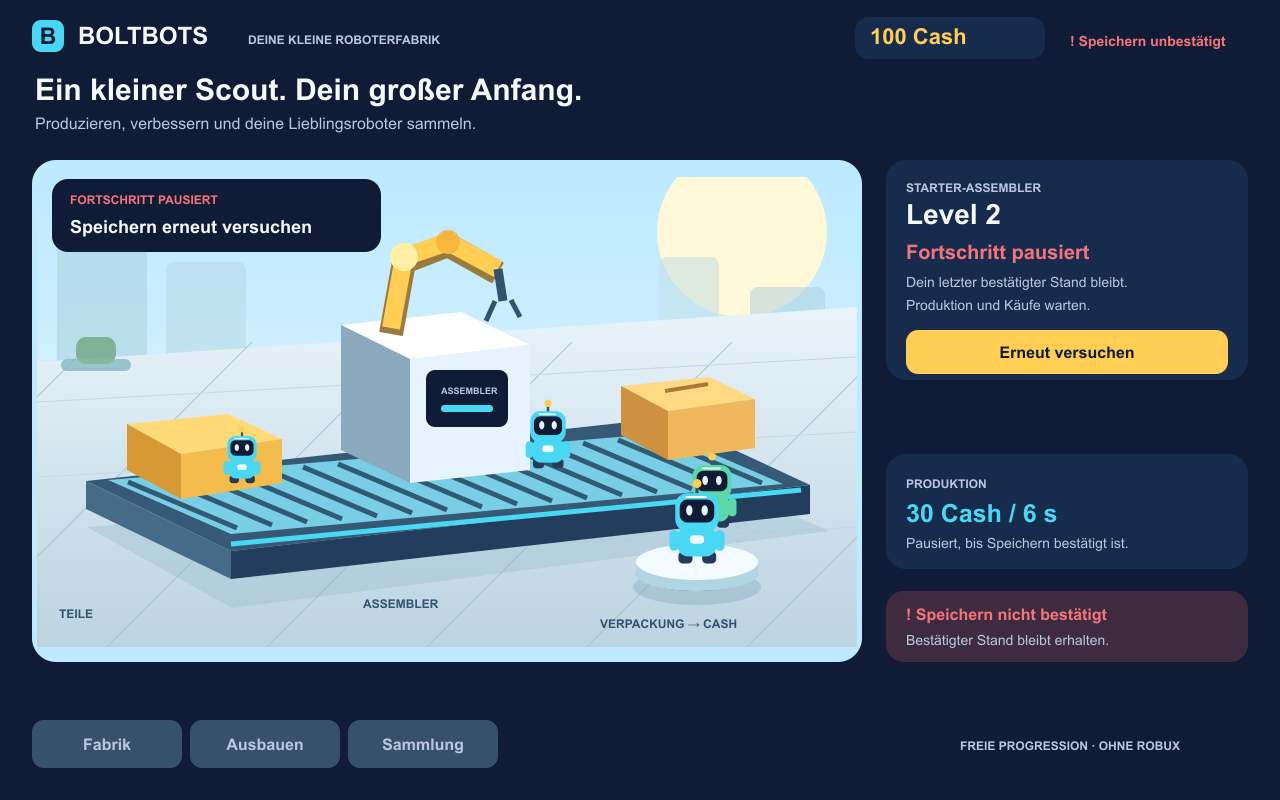
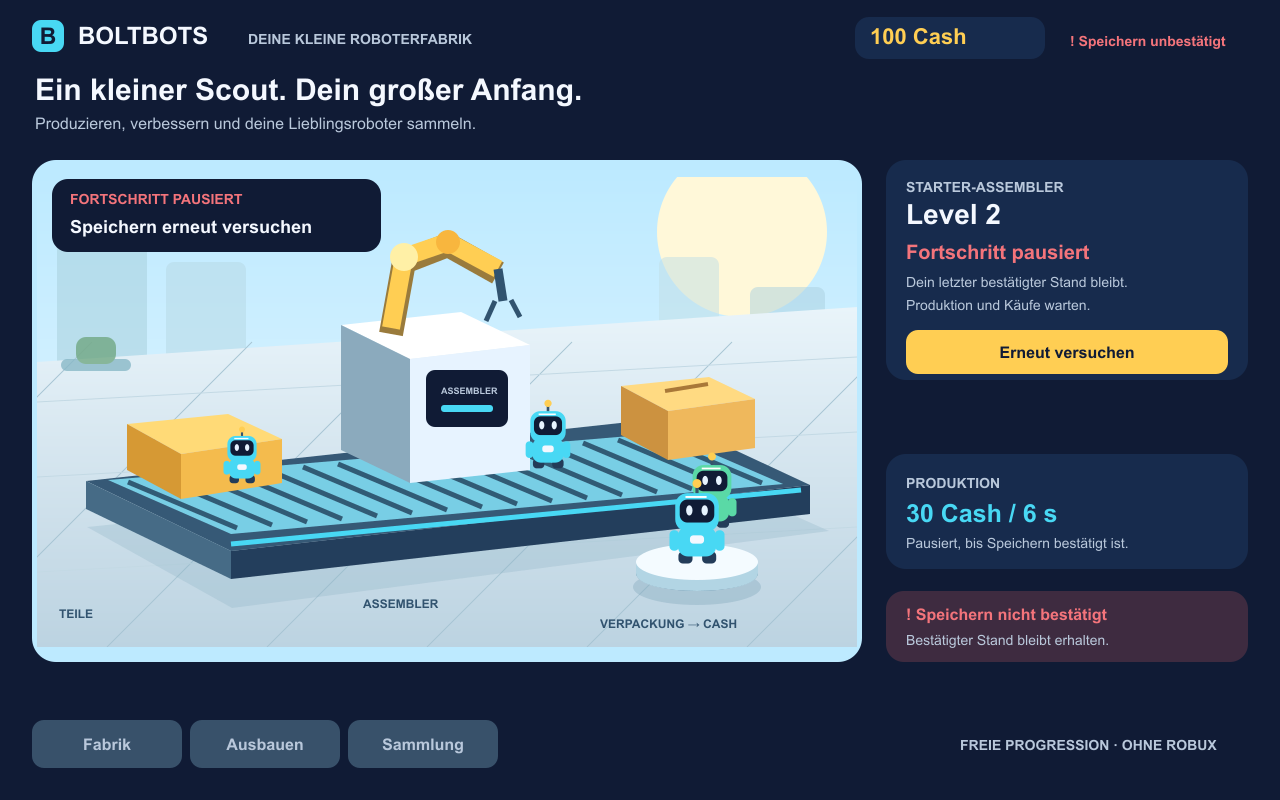
Raise design labels to reviewed minimum size

diff --git a/docs/design/reference/design.js b/docs/design/reference/design.js
@@ -23,9 +23,9 @@
       return rect(x,y,w,h,disabled?'#38516A':fill,12)+text(x+w/2,y+h/2+6,label,16,disabled?C.muted:(fill===C.panel?C.text:C.ink),700,'text-anchor="middle"');
     }
     function nav(y){const gap=8,margin=mobile?16:32,bw=mobile?(width-48)/3:150;return ['Fabrik','Ausbauen','Sammlung'].map((label,i)=>button('nav'+i,margin+i*(bw+gap),y,bw,48,label,[success?'upgraded':'world',success?'upgraded':'upgrade',success?'collection':'collection_initial'][i],((collection&&i===2)||(!collection&&state==='upgrade'&&i===1)||state==='world'&&i===0)?C.cyan:C.panel,error)).join('');}
-    function status(){return text(mobile?24:width-210,mobile?105:46,error?'! Speichern unbestätigt':'● Beispiel: gespeichert',mobile?13:14,error?C.danger:C.ok,600);}
+    function status(){return text(mobile?24:width-210,mobile?105:46,error?'! Speichern unbestätigt':'● Beispiel: gespeichert',14,error?C.danger:C.ok,600);}
     function machineCard(x,y,w){
-      let b=rect(x,y,w,error?220:286,C.panel,20)+text(x+20,y+32,'STARTER-ASSEMBLER',12,C.muted,700)+text(x+20,y+64,`Level ${level}`,28,C.text,750);
+      let b=rect(x,y,w,error?220:286,C.panel,20)+text(x+20,y+32,'STARTER-ASSEMBLER',14,C.muted,700)+text(x+20,y+64,`Level ${level}`,28,C.text,750);
       if(error){return b+text(x+20,y+99,'Fortschritt pausiert',20,C.danger,700)+text(x+20,y+127,'Dein letzter bestätigter Stand bleibt.',14,C.muted)+text(x+20,y+150,'Produktion und Käufe warten.',14,C.muted)+button('retry',x+20,y+170,w-40,44,'Erneut versuchen','upgraded',C.amber);}
       if(success){return b+text(x+20,y+100,'✓ Ausbau geschafft',20,C.ok,700)+text(x+20,y+132,'Orbit ist jetzt freigeschaltet.',15,C.text)+text(x+20,y+157,'Wähle dein nächstes Design.',15,C.muted)+button('go-collection',x+20,y+185,w-40,48,'Sammlung öffnen','collection',C.amber);}
       b+=text(x+20,y+97,'Schneller produzieren',20,C.text,700)+text(x+20,y+128,'Level 1 → Level 2',16,C.muted)+text(x+20,y+153,'Danach: Orbit freigeschaltet',14,C.cyan);
@@ -38,14 +38,14 @@
       const cw=mobile?(w-12)/2:(w-48)/5,ch=mobile?181:280,gap=12;
       return names.map((name,i)=>{
         const cx=x+(i%(mobile?2:5))*(cw+gap),cy=y+Math.floor(i/(mobile?2:5))*(ch+gap),free=i<(success?2:1);
-        let card=rect(cx,cy,cw,ch,C.panel,16)+robot(cx+cw/2,cy+(mobile?52:99),mobile?.5:.95,cols[i],[0,2,1,3,4][i])+text(cx+14,cy+(mobile?105:183),name,mobile?18:22,C.text,700)+text(cx+14,cy+(mobile?126:208),free?'Freigeschaltet':'Noch gesperrt',mobile?12:14,free?C.ok:C.muted);
+        let card=rect(cx,cy,cw,ch,C.panel,16)+robot(cx+cw/2,cy+(mobile?52:99),mobile?.5:.95,cols[i],[0,2,1,3,4][i])+text(cx+14,cy+(mobile?105:183),name,mobile?18:22,C.text,700)+text(cx+14,cy+(mobile?126:208),free?'Freigeschaltet':'Noch gesperrt',14,free?C.ok:C.muted);
         if(free)card+=button('select-'+i,cx+8,cy+ch-50,cw-16,44,name==='Orbit'?'Orbit wählen':'Scout wählen',name==='Orbit'?'orbit_selected':success?'upgraded':'world',C.cyan);
         return card;
       }).join('');
     }
     body+=rect(0,0,width,height,C.ink,0);
     body+=rect(mobile?16:32,20,32,32,C.cyan,9)+text(mobile?32:48,44,'B',23,C.ink,800,'text-anchor="middle"')+text(mobile?58:78,44,'BOLTBOTS',mobile?21:24,C.text,800);
-    if(!mobile) body+=text(248,44,'DEINE KLEINE ROBOTERFABRIK',12,C.muted,600);
+    if(!mobile) body+=text(248,44,'DEINE KLEINE ROBOTERFABRIK',14,C.muted,600);
     const cx=mobile?width-123:width-425;body+=rect(cx,17,mobile?107:190,42,C.panel,14)+text(cx+15,44,`${cash} Cash`,mobile?18:22,C.amber,750);body+=status();
     if(mobile){
       body+=text(20,83,rate,14,C.muted,500);
@@ -53,19 +53,19 @@
         body+=text(20,143,'Deine Roboter',28,C.text,750)+text(20,170,state==='orbit_selected'?'Orbit startet im nächsten Durchlauf.':`${success?2:1} von 5 Designs freigeschaltet`,14,C.muted)+collectionCards(16,190,width-32);
         body+=nav(height-64);
       } else {
-        body+=rect(16,122,width-32,66,error?'#3E2B40':C.panel,16)+text(30,146,error?'SPEICHERPROBLEM':success?'NEUES DESIGN':'DEIN NÄCHSTES ZIEL',11,error?C.danger:C.cyan,700)+text(30,174,error?'Dein Fortschritt wartet sicher.':success?'Entdecke Orbit in der Sammlung.':'Verbessere deinen Assembler.',17,C.text,650);
+        body+=rect(16,122,width-32,66,error?'#3E2B40':C.panel,16)+text(30,146,error?'SPEICHERPROBLEM':success?'NEUES DESIGN':'DEIN NÄCHSTES ZIEL',14,error?C.danger:C.cyan,700)+text(30,174,error?'Dein Fortschritt wartet sicher.':success?'Entdecke Orbit in der Sammlung.':'Verbessere deinen Assembler.',17,C.text,650);
         body+=scene(0,202,width,239)+machineCard(16,449,width-32)+nav(height-64);
-        body+=text(20,755,error?'Keine neuen Änderungen, bis Speichern bestätigt ist.':success?'✓ Orbit freigeschaltet':'Scout entsteht automatisch. Cash kommt von selbst.',12,error?C.muted:C.cyan);
+        body+=text(20,755,error?'Keine neuen Änderungen, bis Speichern bestätigt ist.':success?'✓ Orbit freigeschaltet':'Scout entsteht automatisch. Cash kommt von selbst.',14,error?C.muted:C.cyan);
       }
     } else {
       body+=text(35,100,collection?'Deine Robotersammlung':'Ein kleiner Scout. Dein großer Anfang.',30,C.text,750)+text(35,129,collection?(state==='orbit_selected'?'Orbit produziert ab dem nächsten Durchlauf.':'Fünf Designs. Jedes mit einem eigenen Charakter.'):'Produzieren, verbessern und deine Lieblingsroboter sammeln.',16,C.muted);
-      if(collection){body+=collectionCards(32,180,width-64)+rect(32,483,width-64,100,C.panel,20)+text(56,521,'DEIN NÄCHSTES ZIEL',12,C.cyan,700)+text(56,553,'Baue deine Fabrik weiter aus und entdecke neue Designs.',22,C.text,650);}
+      if(collection){body+=collectionCards(32,180,width-64)+rect(32,483,width-64,100,C.panel,20)+text(56,521,'DEIN NÄCHSTES ZIEL',14,C.cyan,700)+text(56,553,'Baue deine Fabrik weiter aus und entdecke neue Designs.',22,C.text,650);}
       else {
-        body+=rect(32,160,830,502,'#BDEAFF',24)+scene(37,177,820,470)+rect(52,179,329,73,C.ink,16)+text(70,204,error?'FORTSCHRITT PAUSIERT':success?'ORBIT FREIGESCHALTET':'DEIN NÄCHSTES ZIEL',12,error?C.danger:C.cyan,700)+text(70,233,error?'Speichern erneut versuchen':success?'Öffne deine Sammlung':'Starter-Assembler auf Level 2',18,C.text,650);
-        body+=machineCard(886,160,362)+rect(886,454,362,115,C.panel,20)+text(906,488,'PRODUKTION',12,C.muted,700)+text(906,522,rate,25,C.cyan,700)+text(906,548,error?'Pausiert, bis Speichern bestätigt ist.':'Cash wird automatisch gutgeschrieben.',14,C.muted);
+        body+=rect(32,160,830,502,'#BDEAFF',24)+scene(37,177,820,470)+rect(52,179,329,73,C.ink,16)+text(70,204,error?'FORTSCHRITT PAUSIERT':success?'ORBIT FREIGESCHALTET':'DEIN NÄCHSTES ZIEL',14,error?C.danger:C.cyan,700)+text(70,233,error?'Speichern erneut versuchen':success?'Öffne deine Sammlung':'Starter-Assembler auf Level 2',18,C.text,650);
+        body+=machineCard(886,160,362)+rect(886,454,362,115,C.panel,20)+text(906,488,'PRODUKTION',14,C.muted,700)+text(906,522,rate,25,C.cyan,700)+text(906,548,error?'Pausiert, bis Speichern bestätigt ist.':'Cash wird automatisch gutgeschrieben.',14,C.muted);
         body+=rect(886,591,362,71,error?'#3E2B40':C.panel,18)+text(906,620,error?'! Speichern nicht bestätigt':'✓ Deine Fabrik, dein Fortschritt',16,error?C.danger:C.ok,650)+text(906,645,error?'Bestätigter Stand bleibt erhalten.':'Hier kann nur dein Konto ausbauen.',14,C.muted);
       }
-      body+=nav(height-80)+text(width-320,height-50,'FREIE PROGRESSION · OHNE ROBUX',12,C.muted,600);
+      body+=nav(height-80)+text(width-320,height-50,'FREIE PROGRESSION · OHNE ROBUX',14,C.muted,600);
     }
     const svg=`<svg xmlns="http://www.w3.org/2000/svg" width="${width}" height="${height}" viewBox="0 0 ${width} ${height}" role="img" aria-label="BoltBots Designreferenz ${esc(state)}"><g font-family="Arial, Helvetica, sans-serif">${body}</g></svg>`;
     return {svg,actions:a,summary:`Designfixture ${state}. ${cash} Cash. Assembler Level ${level}. ${error?'Speichern nicht bestätigt; Fortschritt pausiert.':''}`,state,width,height};

diff --git a/docs/reviews/20261024-1.5.3-boltbots-initialization-review.md b/docs/reviews/20261024-1.5.3-boltbots-initialization-review.md
@@ -1,9 +1,9 @@
 # BoltBots — Entscheidung zur Initialisierung
 
-> Artifact ID: `BOLTBOTS-INITIALIZATION-REVIEW-001` · Revision: 1
+> Artifact ID: `BOLTBOTS-INITIALIZATION-REVIEW-001` · Revision: 2
 > Artifact class: Review record · Decision class: D3 human-gated
 > Lead/Creator: /root · independent Reviewer: /root/init_review · Human Authority: Marek
-> Status: candidate; unabhängige Gesamtprüfung pending; Human Initialization Decision pending
+> Status: unabhängige Gesamtprüfung `changes_requested`; Human Initialization Decision pending
 > Run: BOLTBOTS-RUN-INITIALIZATION-001 r1
 
 ## Das Paket in Spielsprache
@@ -21,7 +21,7 @@ Die neue visuelle Referenz zeigt Fabrik, Upgrade, Sammlung sowie Erfolgs-/Speich
 | Ziel, MVP, alle39PRD-Anforderungen, Rollen und Erfolgsmessung | [Vision/MVP r1](../product/vision-and-mvp.md) |
 | Abläufe, Berechtigungen, Kauf-/Fehler-/Speicherverträge und Trace | [Factory r1](../specs/factory-module.md) |
 | Roblox-Architektur, Daten/Tests/Kosten, ADR-01 und Releasepolitik | [Technik r1](../specs/technical-foundation.md) |
-| Formen/Farben, Quellenübernahme, mobile Bedienung und visuelle Grenzen | [Design r1](../design/design-reference.md), [interaktives HTML](../design/reference/index.html) |
+| Formen/Farben, Quellenübernahme, mobile Bedienung und visuelle Grenzen | [Design r2](../design/design-reference.md), [interaktives HTML](../design/reference/index.html) |
 | Ausführlicher M1, sechs Wochen, vorgeschlagene Pakete/Runs | [Meilensteine r1](../planning/milestones.md) |
 | Einrichtung auf Mareks und weiteren Rechnern | [Setupguide r1](../setup.md) |
 
@@ -43,7 +43,7 @@ Die Foundation r1 ist weiterhin SHA256 `2cd9c514b3f1aefc1f7955e5389e75f9912a6f1e
 Nach der unabhängigen Review sind diese Entscheidungen gemeinsam möglich:
 
 1. **Produkt:** Vision/MVP,39Anforderungsdispositionen und Architekturvorschlag r1.
-2. **Design:** begrenzte Referenz r1 als Richtung für M1; endgültige Qualitätsentscheidung an echter Studio-Szene.
+2. **Design:** begrenzte Referenz r2 als Richtung für M1; endgültige Qualitätsentscheidung an echter Studio-Szene.
 3. **Plan:** M1 mit Setup, Spiel-/Save-/Design-/Agenttest sowie rollender M2/M3-Plan.
 4. **Release/Technik:** Product Release Policy r1 und ADR-01 Roblox-Lieferweg.
 5. **Beginn der Umsetzung:** vorgeschlagener RUN-M1-001 darf konkretisiert und nach Capability Preflight operativ gestartet werden; externe Zielaktionen bleiben an die genaue Autorisierung gebunden.
@@ -52,7 +52,55 @@ Keine automatische Freigabe für spätere Roadmap-Runs, Käufe oder öffentliche
 
 ## Unabhängige Gesamtprüfung und 80%-Drift
 
-Pending. Reviewer prüft Originalauftrag/Quellen gegen Kriterien und tatsächlich vorhandene Kandidatenbilder/Baselines; reine Textzusammenfassung genügt nicht. Exakte Bild-IDs, Capability image_tool, Abweichungen, Befunde, Reviewentscheidung und Drift/Simplicity/Budget werden hier nach tatsächlicher Prüfung festgehalten.
+**Entscheidung am 2026-10-24: `changes_requested` für einen eng begrenzten visuellen Befund.** Reviewer `/root/init_review` ist unabhängig vom Creator `/root`, hat keine Produkt-/Designquelle verändert und besitzt den exakten Startpass für diese Gesamtprüfung. Human bleibt `pending`. Die übrige Produkt-/Domain-/Technik-/Planungsbewertung erfordert keine materielle Korrektur.
+
+**Verständnis des Ziels:** Spieler sollen eine eigene freundliche Fabrik wachsen sehen, ohne komplizierte Logistik oder bezahlte Fortschrittszwänge. Sichtbare Produktion, nachvollziehbarer Ausbau, unterscheidbare Sammeldesigns und wiederherstellbarer Fortschritt tragen den MVP. M1 ist dafür eine sinnvolle kleine Wertkette: echtes Spiel mit dünner Persistenz und gemeinsamer Qualitätsreferenz, vom Agenten gebaut und gespielt. Der Human bleibt Entscheider über Richtung und Qualität; persönliche Freigaben werden nicht mit manueller Herstellungsarbeit verwechselt.
+
+### Exakte geprüfte Basis
+
[1 lines of base64/hex data omitted]
+
+### Kriterienprüfung aus drei Perspektiven
+
+| Kriterium / Perspektive | Beobachtung und Bewertung |
+|---|---|
+| Product: ursprünglicher PRD und Humanänderungen | Alle 39 ursprünglichen Anforderungs-IDs sind einzeln disponiert; die Mengen stimmen unabhängig ohne fehlende/zusätzliche IDs überein. O1–O5 und die Qualitätsanforderungen haben geplante Nachweise. Setup nach Checkout, vollständige Erstellung durch Codex, echte Agent-Spieltests und die zweistufige Robotergestaltung sind in M1/M2 ausdrücklich erhalten. Technische Agenttests werden nicht als Novizenmedian oder tatsächlicher Spielspaß ausgegeben. |
+| Domain und Kernflows | Ein Factory-Kontext, persönliche Eigentumsgrenze, automatische Vergütung, Designrechte statt Einzelroboterinventar und Orbit ab Starter-L2 bleiben unverändert. Kaufabsicht, Preis-/Levelprüfung, Abbruch, Ablehnung, Duplicate-/stale-Fälle und Savepause sind nachvollziehbar. Auswahl betrifft den nächsten Durchlauf; die Fixture vor dem Upgrade gewährt kein Orbitrecht. Die frühe Flow-Linse wurde übernommen, ohne neue Währung oder Shopmechanik. |
+| Engineering: Architektur, Verträge und Betrieb | Ein Factory-Modul mit reinen Regeln und konkreten Roblox-Adaptern genügt. Kein spekulatives Backend, keine Account-/Persistenzdomäne und keine leeren Schichtsysteme. Persistenzvorschlag nennt Konflikt-/Ausfalltests und behauptet keine automatische Dauerhaftigkeit durch lokale Klicks. ADR-01 begründet den Roblox-Lieferweg und bleibt eine explizite Human-Entscheidung. |
+| Release und Autorität | Product Release Policy r1 trennt Spielversion, Harnessversion, Profil-Schema und tatsächlich laufenden Place. SemVer, RC, Tagbindung, Veröffentlichung und Daten-/Code-Rollback sind benannt. Keine Produktversion, Testexperience oder Deploymentfreigabe erfunden. Das vorgeschlagene RUN-M1-001 bleibt vor echter Capability-/Zielprüfung nicht ausführbar. Die bekannte Statusprüferausnahme ersetzt keinen sonstigen Nachweis. |
+| Plan und Machbarkeit | Drei Zweiwochenfenster besitzen Ergebnisse und Abnahmen; nur M1 ist detailliert. Rund ein Drittel Kapazität für Test/Korrektur verhindert eine reine Implementierungsplanung. Save/Rejoin, Isolation, echte Szene und Agentbedienung sind harte M1-Ergebnisse; fehlende Testexperience darf nicht als fertiges M1 versteckt werden. Der zweite Rechner und echte Novizen-/Gerätetests bleiben sichtbar spätere Nachweise. |
+| Setup und Nachweisgrenzen | Der Guide unterscheidet vorhandene Dateien, vom Human gemeldetes Update, tatsächlich ausgeführte Tools und erst geplante Befehle. Kein erfundener Studio-CLI-Smoke und kein vorhandener Launcher behauptet. Persönlicher Login ist klar begrenzt. Die vorliegenden Daten beweisen noch keinen Studio-, Browser-, Rojo-, Mehrspieler- oder Blender-Lauf. |
+| Devil/Simplicity und Gegenbelege | Sechs zusammengefasste Eigentümerdokumente und eine begrenzte Designquelle erfüllen die Aufgabe ohne Dokument-/Servicefächerung. Ein HTML-/PNG-Entwurf belegt keine hochwertige 3D-Szene; die einfachen Roboterbilder beweisen noch keine fünf finalen 3D-Silhouetten. H-BAL/CAP/SAVE/LOOK/AUTO bleiben mit Prüfauslösern offen. Diese Grenzen sind im Plan erhalten und kein Anlass, jetzt weitere Plattformen oder Inhalte zu bauen. |
+
+Die vorgeschlagenen DataStore-Testgrenzen wurden mit der [offiziellen Roblox-Dokumentation](https://create.roblox.com/docs/cloud-services/data-stores) abgeglichen: Studiozugriff ist gesondert zu aktivieren, eine separate Testversion schützt Produktionsdaten, Netzwerkfehler bleiben zu behandeln. Die vorgesehenen Build-/Serve-Schritte entsprechen der [Rojo-v7-Dokumentation](https://rojo.space/docs/v7/getting-started/new-game/). Diese Quellenprüfung ist kein Nachweis einer lokal funktionierenden Toolchain.
+
+### Tatsächliche visuelle Prüfung
+
+Capability: **`image_tool`**, konkret `view_image`; alle nachfolgenden Bild-IDs wurden vollständig geöffnet und angesehen. Keine Browser- oder Studioausführung behauptet.
+
+| Tatsächlich inspizierte Bild-IDs | Vergleich / Beobachtung |
+|---|---|
+| `baseline-01_factory_world_concept.png`, `baseline-02_hud_concept.png`, `baseline-03_robot_shop_concept.png` | Unveränderte illustrative Eingabe: helle Fabrik, freundliche Roboter, cyan/amber und dunkle HUD-Flächen. XP-/Diamanten-/Shop-/Seltenheitsdetails sind keine genehmigte Domainlogik. Die eigene Geometrie übernimmt die Richtung und vermeidet blindes Kopieren dieser Produktdetails. |
+| `world-1280`, `upgrade-1280`, `upgraded-1280` | Produktion und Maschine bleiben dominant; Ziel, Cash, eindeutiger Kauf/Abbruch und Ergebnis lassen sich verfolgen. 150→100 Cash, L1→L2 und Orbitfreischaltung stimmen mit den Fixtures überein. Ausreichender Abstand, konsistente Panels/Buttons und keine beobachtete Überdeckung der Hauptaktionen. Einige sekundäre Labels unterschreiten jedoch die eigene Mindestgröße: F-VIS-01. |
+| `collection-1280`, `collection-390` | Fünf benannte Designs, freie Scout-/Orbitwahl und gesperrte weitere Familien bleiben unterscheidbar. Mobile wechselt sinnvoll auf zwei Spalten, statt Desktop klein zu skalieren. Kein M2-/Implementierungsbegriff in der Spielansicht. Genaue spätere Freischaltbedingungen bleiben H-BAL, nicht durch Fantasiewerte vorgetäuscht. Mobile Statuslabels sind von F-VIS-01 betroffen. |
+| `save_error-1280`, `save_error-390` | Unbestätigte Speicherung wird textlich und farblich gezeigt, Navigation/Fortschrittsaktionen sind sichtbar deaktiviert, Wiederholung ist getrennt. Letzter bestätigter Zustand bleibt 100 Cash/L2; keine neue Belohnung. Rate wird zusammen mit dem ausdrücklichen Pausenhinweis gezeigt. Kleine mobile Ziel-/Hilfslabels fallen unter F-VIS-01. |
+| `upgrade-390` | Cash, Ziel, Szene und Kaufkarte sind auf dem schmalen Viewport klar geordnet; Kauf und Abbruch bleiben sichtbar. Die Weltillustration dient der Orientierung, nicht als beweisende Studio-Szene. Informative UI-Labels dürfen trotzdem die deklarierte Mindestgröße nicht unterschreiten. |
+
+Die Sourceprüfung bestätigt native beschriftete Buttons, sichtbare Fokusgestaltung, feste Zustände, gesperrte Fehlernavigation und den Retry ohne Fortschrittsreset. Vorhandene fokussierte Quellenprüfungen für Action-Bounds, mindestens 44px Ziele, gültige Übergänge und fünf Kontrastpaare wurden für den unveränderten Kandidaten wiederverwendet. Eine HTML-Parsing-/Quellenprüfung belegt weder echtes Browserfokusverhalten noch Roblox-Touchbedienung; dafür werden keine weitergehenden Abnahmen behauptet.
+
+### Konsolidierter Befund und Disposition
+
+| Finding | Einstufung und konkrete Evidenz | Disposition / Closurebedingung |
+|---|---|---|
+| **F-VIS-01 — informative Labels kleiner als vereinbart** | `minor`, `blocking: true`, `in_scope_blocking`. Design r1 verspricht für ergänzende Labels mindestens 14 logische Pixel. `design.js` setzt u. a. mobile Ziel-/Speicherüberschriften auf 11px, Sammlungsstatus auf 12px und Maschinen-/Desktopmetadaten auf 12px. Die inspizierten Bilder bestätigen diese kleinen UI-Texte. Betroffen: vereinbarte Lesbarkeit auf schmaler Darstellung, keine neue Produktscopefrage. | Von Root angenommen. In einem gemeinsamen Korrekturpatch informative Spieler-UI-Texte auf mindestens 14px bringen; Maßstab nicht pauschal absenken. Rein illustrative Szenenbeschriftung darf getrennt als Illustration verbleiben. Acht Kandidatenbilder neu rendern, tatsächliche Text-/Aktionsgrenzen und relevante Übergänge prüfen, Quellen-/Bildbindungen aktualisieren. Reviewer prüft anschließend nur diese geänderten Quellen und Bilder. Bis dahin kein finales visuelles approved. |
+
+Keine weiteren materiellen Findings, keine verdeckte Scopeerweiterung und kein verbleibender Dissens. Die spätere reale Spiel-/Gerätequalität und die bekannten Hypothesen sind geplante Arbeiten mit klaren Auslösern, keine fälschlich geschlossenen Tests.
+
+### Unabhängiger 80%-Driftcheck
+
+**Entscheidung: `continue` ausschließlich für die eine angenommene Korrektur samt fokussierter Closure, danach Gate-Vorlage.** Der Originalauftrag wird durch vollständige Anforderungen, kohärentes M1, technische Grundlage und tatsächlich betrachteten Designnachweis verfolgt. F-VIS-01 ist direkt auf den zugesagten Qualitätsmaßstab zurückgeführt; keine neue Infrastruktur, kein zusätzliches Feature, kein weiterer Agent und keine Wiederholung unveränderter Domain-/Planreview nötig.
+
+80% bezeichnet den Fortschritt der gesamten Initialisierung, nicht Umsetzung oder Human-Abnahme. Stand der Prüfung etwa 17:22 UTC: rund 44 von 120 Minuten des Phase-B-Fensters verbraucht, rund 76 Minuten bis 18:38:45 UTC verfügbar. Drei bestehende Astra/xhigh-Identitäten; zwei Arbeitsrollen und separater Startreviewer. Frühe Flow-Linse und diese konsolidierte Gesamtprüfung gehören zum bestehenden Reviewbudget. Vor dem angenommenen Patch sind 2/3 Korrekturzyklen verbraucht, genau einer verbleibt; dessen relevante Tests und Closure sind eingeschlossen. Nach Abschluss kann ohne zusätzliche Produktarbeit das zweite Human-Gate vorgelegt werden. Neue materielle Mängel nach Erschöpfung würden einen ehrlichen Halt erfordern, keine zusätzliche Schleife unter anderem Namen.
 
 ## Humanentscheidung
 

diff --git a/docs/work/runs/boltbots-initialization-001.md b/docs/work/runs/boltbots-initialization-001.md
@@ -15,7 +15,7 @@ Die genaue freigegebene Foundation bleibt SHA256 `2cd9c514b3f1aefc1f7955e5389e75
 
 Scope Lock: Das Ergebnis sind die notwendigen Initialisierungsartefakte für genau einen Factory-Kontext und den genehmigten Horizont. Bestehende Quellbedeutung wiederverwenden; höchstens wenige zusammengefasste Eigentümerdokumente und ein kleines gebundenes Design. Ein Fund außerhalb dieses Ergebnisses wird mit Owner/Trigger zurückgestellt. Outcome-, Pfad-, Team-, Budget- oder externe Aktionsausweitung braucht entsprechende vorherige Human-Autorität.
 
-Finite Grenze:120Minuten ab16:38:45UTC am24.10.2026, Ende18:38:45UTC, einschließlich Vorbereitung. Gesamtfortschritt40%;2von3Korrekturzyklen verbraucht,1 verbleibt. Keine Rücksetzung am Phasenwechsel. Phase-A-Zeitrahmen beendet; keine erneute Arbeit an ihrer Fachsemantik.
+Finite Grenze:120Minuten ab16:38:45UTC am24.10.2026, Ende18:38:45UTC, einschließlich Vorbereitung. Gesamtfortschritt80%; Korrekturzyklus3von3 für F-VIS-01 aktiv, einschließlich seiner fokussierten Closure; danach keine weitere Reserve. Keine Rücksetzung am Phasenwechsel. Phase-A-Zeitrahmen beendet; keine erneute Arbeit an ihrer Fachsemantik.
 
 ## Führende Arbeitsliste
 
@@ -133,7 +133,7 @@ Die vorhandene Visual Reference Board HTML ist eine statische Bildgalerie, kein 
 ```json
 {
   "checked_revision": 1,
-  "progress": 70,
+  "progress": 80,
   "updates": [
     {
       "percent": 10,
@@ -162,6 +162,10 @@ Die vorhandene Visual Reference Board HTML ist eine statische Bildgalerie, kein 
     {
       "percent": 70,
       "evidence": "Synthetischer interaktiver HTML/SVG-Entwurf mit drei Ansichten und Varianten,8PNG-Kandidaten +3unveränderte Baselinebilder erstellt. Root hat alle8Kandidaten und3Quellen tatsächlich angesehen. Focusedchecks:44px-Ziele/Bounds, festeTransitions inklusive Save-Retry, Syntax/keineNetzwerkaufrufe und5Kontrastpaare bestanden. Keine Browser-/Studioausführung behauptet. Nächster Schritt konsolidierte unabhängige Gesamt-/Bildprüfung samt80%-Drift."
+    },
+    {
+      "percent": 80,
+      "evidence": "Unabhängiger init_review hat alle11Bilder tatsächlich gesehen, exakteHashes/Commit3aef09d und39/39PRD-IDs bestätigt. Ein konsolidierterBlocker: informativeUI-Labels unterschreiten den eigenen14px-Mindestmaßstab. Kein weiterer materiellerDomain/M1/Architektur/Autoritätsbefund. Letzter verbleibender gemeinsamerKorrekturzyklus wird nur für Schriftgrößen/erneute betroffeneBildclosure genutzt."
     }
   ],
   "drift_checks": [
@@ -190,6 +194,12 @@ Die vorhandene Visual Reference Board HTML ist eine statische Bildgalerie, kein 
       "reviewer": "/root",
       "decision": "continue",
       "evidence": "Originalziel bleibt Initialisierung mit M1-Setup/realem Spiel/Design/Agenttest, nicht bloß Prozess. Alle39Anforderungen disponiert; keine neue Domain, kein eigener Backenddienst, Blender optional. Sechs zusammengefasste Docs statt separatem Artefakt pro Pflicht. Größtes Risiko reale Studio-/Save-/Gerätefähigkeit in M1 ausdrücklich offen. Geplantes Rendering nutzt vorhandenes sharp, keine Installation/Cloud. Rund34von120Minuten PhaseB verbraucht, Rest bis18:38:45UTC;2von3Korrekturen verwendet,1verbleibt. UI begrenzt auf3Ansichten/Varianten, gleicheReviewrunde. Weiter zum visuellen Nachweis nach früher Flow-Linse."
+    },
+    {
+      "percent": 80,
+      "reviewer": "/root/init_review",
+      "decision": "continue",
+      "evidence": "UnabhängigeOriginalauftrag-/Quellen-/Bildprüfung: Konzept/M1/Architektur und39Anforderungen konsistent; alle8Kandidaten und3Baselines tatsächlich angesehen. Weiter nur zur eng begrenzten Schriftgrößenkorrektur, keine Ausweitung oder Absenkung des Qualitätsmaßstabs. Eine verbleibendeKorrektur plusbetroffeneClosure; PhaseB-Ende18:38:45UTC. Endreviewbefunde im bestehendenInitializationReviewPack. Human- und realeSpielnachweise bleiben offen."
     }
   ],
   "obligations": {
@@ -276,3 +286,7 @@ Studio: Dateiprüfung fand /Applications/RobloxStudio.app, bewies aber keinen er
 }
 ```
 <!-- visual-assurance:end -->
+
+## Gemeinsamer Korrekturzyklus3von3
+
+F-VIS-01 aus unabhängiger Gesamtprüfung: informativeUI-Schriftgröße kleinerals14px. Genau diese Texte werden auf≥14px angepasst; illustrative Weltzeichnung bleibt separat. Kein Produkt-/Flow-/Architekturwechsel. Betroffene Designrevision2, Rendererrevision2 und8PNG werden neu gebunden; Source-/Bounds-/Transition-/Kontrastregression und echte Bildsicht in demselben letzten Zyklus. Danach fokussierte unabhängigeClosure, unveränderte fachlicheReview wiederverwenden. Keine neue Runde/Reserve.

diff --git a/docs/handover.md b/docs/handover.md
@@ -5,7 +5,7 @@
 
 ## Stand und Entscheidung
 
-- **70% der gesamten Initialisierung.** Die fachliche Grundlage ist vom Human freigegeben; die Gesamtinitialisierung ist noch nicht abgeschlossen.
+- **80% der gesamten Initialisierung.** Die fachliche Grundlage ist vom Human freigegeben; die Gesamtinitialisierung ist noch nicht abgeschlossen.
 - Kanonischer Zustand: [Bootstrap](harness-state/bootstrap-and-installation.md), `initializing`.
 - Führende Arbeitsliste, Fortschrittsbelege, Driftchecks und Wiederaufnahme: [Initialisierungs-Run Revision 1](work/runs/boltbots-initialization-001.md), Status `active`; ursprüngliche 10–40%-Belege bleiben im referenzierten Domain-Run erhalten.
 - [Foundation Revision 1](domains/domain-foundation.md): unabhängig empfohlen und am 24. Oktober 2026 vom Human ausdrücklich freigegeben; Kandidatenbytes unverändert. [Kurzes Entscheidungs-/Review-Paket](reviews/20261024-1.5.3-boltbots-domain-foundation-review.md): Review `approved`, Human `approved`.
@@ -27,4 +27,4 @@ Human hat die verlinkte genaue Foundation samt drei Empfehlungen freigegeben: au
 
 ## Aktuelle Kandidaten
 
-[Vision/MVP](product/vision-and-mvp.md), [Factory-Verträge/Flows](specs/factory-module.md), [Technik/Releasepolitik](specs/technical-foundation.md), [Designvertrag](design/design-reference.md), [Meilensteine/M1](planning/milestones.md), [Setupguide](setup.md). Noch nicht Human-approved und keine Umsetzung. Frühe Flow-Linse bestanden; interaktive Referenz und8echtePNG-Render erstellt, Root-Sichtprüfung durchgeführt. Nächster Schritt: unabhängige Gesamt-/Bildprüfung samt80%-Drift.
+[Vision/MVP](product/vision-and-mvp.md), [Factory-Verträge/Flows](specs/factory-module.md), [Technik/Releasepolitik](specs/technical-foundation.md), [Designvertrag](design/design-reference.md), [Meilensteine/M1](planning/milestones.md), [Setupguide](setup.md). Noch nicht Human-approved und keine Umsetzung. Frühe Flow-Linse bestanden; interaktive Referenz und8echtePNG-Render erstellt, Root-Sichtprüfung durchgeführt. Unabhängige Gesamt-/Bildprüfung samt80%-Drift durchgeführt; eine gezielte UI-Schriftgrößenkorrektur vor Abschluss offen.

diff --git a/docs/design/design-reference.md b/docs/design/design-reference.md
@@ -1,6 +1,6 @@
 # Visuelle Richtung und begrenzter Designvertrag
 
-> Artifact ID: `BOLTBOTS-DESIGN-001` · Revision: 1 · Status: candidate
+> Artifact ID: `BOLTBOTS-DESIGN-001` · Revision: 2 · Status: candidate
 > Creator: /root · independent Product/UX/Engineering reviewer: /root/init_review
 > Design subwork: D2 significant_ui innerhalb des D3-Initialisierungs-Runs
 > `design_reference_only` · `non_promotable` · kein implementiertes Spiel
@@ -63,3 +63,5 @@ Frühe Flow-Linse: /root/init_review `pass`, begrenzte `owner_approved_standalon
 ### Ausführbare Referenz und Renderbefehl
 
 [HTML öffnen](reference/index.html). Quellrenderer: [design.js](reference/design.js); Reproduktion: [render.cjs](reference/render.cjs). In einer Umgebung mit Node und lokal verfügbarem `sharp`: `node docs/design/reference/render.cjs`. Hier wurde das bereits gebündelte sharp0.35.5 mit Node24.19.0 verwendet, ohne Installation. Genau acht Kandidaten-PNGs plus drei unveränderte Baselinebilder stehen im [Rendermanifest](../reviews/evidence/BOLTBOTS-RUN-INITIALIZATION-001/render-manifest.json). Zusätzlich besitzt die Sammlung eine feste Vor-Upgrade-Variante, damit Navigation keine Freischaltung erfindet.
+
+Revision2 — F-VIS-01: sämtliche informativen Spieler-UI-Labels mindestens14logischePixel; illustrative Beschriftungen innerhalb der skalierten Fabrikzeichnung bleiben Teil der Illustration. Keine Absenkung der Mindestgröße, keine geänderte Domain-/Kauf-/Speicherbedeutung. Neue Render/Quellhashes gebunden; fokussierte unabhängige Closure folgt.

diff --git a/docs/specs/spec-routing.md b/docs/specs/spec-routing.md
@@ -43,6 +43,6 @@ Initialization replaces this initial map with narrow routes to actual global spe
 - Pflichtkontext nach Foundation: [Vision/MVP r1](../product/vision-and-mvp.md), derzeit Kandidat.
 - CTX-FACTORY Module Entry Map, öffentliche Target-Verträge, Userflows/Trace: [Factory r1](factory-module.md).
 - Globale Technik, ADR-01 Roblox-Lieferweg, Releasepolitik: [Technik r1](technical-foundation.md).
-- Visuelle Quellen/Design System/Mockupvertrag: [Design r1](../design/design-reference.md).
+- Visuelle Quellen/Design System/Mockupvertrag: [Design r2](../design/design-reference.md).
 - Meilensteine, Walking Skeleton, WP/Run-Vorschläge: [Plan r1](../planning/milestones.md).
 - Lokale Einrichtung und nachgewiesene Grenzen: [Setup r1](../setup.md).
